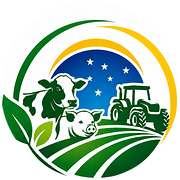
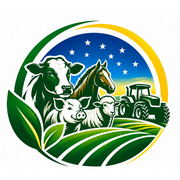
feat: atualizar identidade e incluir Embio 8000

diff --git a/components/site/site-chrome.tsx b/components/site/site-chrome.tsx
@@ -24,6 +24,20 @@ export function Header() {
       <a className="site-logo" href="#inicio" aria-label="Susttenta, página inicial"><Image src="/favicon-master-1024.png" alt="" width={54} height={54} priority /><Image src="/logo-susttenta-wordmark.png" alt="Susttenta" width={178} height={25} priority /></a>
       <WhatsAppLink message={whatsappMessages.embio} ariaLabel="Falar com a Susttenta pelo WhatsApp" className="header-whatsapp whatsapp-pulse"><WhatsAppIcon size={19} /><span>Falar com a Susttenta</span></WhatsAppLink>
     </div>
+    <div className="represented-brands" aria-label="Marcas representadas pela Susttenta">
+      <div className="container represented-brands-inner">
+        <strong>Representante autorizado</strong>
+        <div className="represented-brand represented-brand-embio">
+          <Image src="/media/embio-official/embio-logo-original.png" alt="Embio" width={146} height={40} />
+          <span>Empresa de biotecnologia</span>
+        </div>
+        <span className="represented-brands-divider" aria-hidden="true" />
+        <div className="represented-brand represented-brand-tlc">
+          <Image src="/media/tlc-official/images/tlc-logo-original.svg" alt="TLC Agro" width={140} height={40} />
+          <span>Linha complementar para controle de moscas</span>
+        </div>
+      </div>
+    </div>
     <nav className="desktop-navigation" aria-label="Navegação principal">{navigationItems.map((item) => <a key={item.href} href={item.href}>{item.label}</a>)}</nav>
     <nav id="mobile-navigation" className={`mobile-navigation ${open ? "is-open" : ""}`} aria-label="Navegação móvel" hidden={!open}>{navigationItems.map((item) => <a key={item.href} href={item.href} onClick={() => setOpen(false)}>{item.label}</a>)}<WhatsAppLink message={whatsappMessages.embio} ariaLabel="Solicitar orientação pelo WhatsApp" className="whatsapp-pulse">Solicitar orientação</WhatsAppLink></nav>
   </header>;
@@ -34,8 +48,8 @@ export function Footer() {
   return <>
     <footer className="site-footer">
       <div className="container footer-grid">
-        <div className="footer-summary"><a className="footer-logo" href="#inicio"><Image src="/favicon-master-1024.png" alt="" width={76} height={76} /><Image src="/logo-susttenta-wordmark.png" alt="Susttenta" width={248} height={35} /></a><p>Representante autorizado Embio, com orientação para tratamento biológico de dejetos, ambiência, biodigestores e efluentes.</p><a className="footer-phone" href="tel:+5546999259777">+55 (46) 99925-9777</a></div>
-        <div><strong>Produtos Embio</strong><a href="#embiofert">Tratamento Embiofert</a><a href="#embio-3100">Embio 3100</a><a href="#embio-6000">Embio 6000</a></div>
+        <div className="footer-summary"><a className="footer-logo footer-logo-new" href="#inicio"><Image src="/media/brand/susttenta-logo-2026.webp" alt="Susttenta — Gerando Resultados com Sustentabilidade" width={280} height={280} /></a><p>Representante autorizado Embio, com orientação para tratamento biológico de dejetos, ambiência, biodigestores e efluentes.</p><a className="footer-phone" href="tel:+5546999259777">+55 (46) 99925-9777</a></div>
+        <div><strong>Produtos Embio</strong><a href="#embiofert">Tratamento Embiofert</a><a href="#embio-3100">Embio 3100</a><a href="#embio-6000">Embio 6000</a><a href="#embio-8000">Embio 8000</a></div>
         <div><strong>TLC Agro e Ecomax</strong><a href="#tlc-agro">Conhecer a linha Ecomax</a><WhatsAppLink message={whatsappMessages.ecomax} ariaLabel="Falar sobre a linha Ecomax pelo WhatsApp">WhatsApp Ecomax</WhatsAppLink><strong className="footer-subheading">Acesso rápido</strong><a href="#pedro">Sobre Pedro</a><a href="#faq">Perguntas frequentes</a></div>
         <div><strong>Privacidade</strong><Link href="/privacidade">Política de Privacidade</Link><Link href="/cookies">Política de Cookies</Link><Link href="/termos">Termos de Uso</Link><button type="button" onClick={manageCookies}>Gerenciar preferências</button></div>
       </div>

diff --git a/app/globals.css b/app/globals.css
@@ -602,3 +602,45 @@ small{font-size:.86rem}
   .product-video-grid.pvg-grid,
   .product-video-grid.pvg-grid.has-portrait{grid-template-columns:1fr}
 }
+
+/* ============================================================
+   Identidade 2026 — faixa de representação, Embio 8000 e nova marca
+   ============================================================ */
+.represented-brands{background:#063d24;color:#fff;border-top:1px solid rgba(255,255,255,.08)}
+.represented-brands-inner{min-height:68px;display:grid;grid-template-columns:auto minmax(250px,1fr) 1px minmax(250px,1fr);align-items:center;gap:clamp(18px,3vw,40px)}
+.represented-brands-inner>strong{font-size:clamp(.9rem,1.15vw,1.05rem);font-weight:900;letter-spacing:.1em;text-transform:uppercase;color:var(--yellow);white-space:nowrap}
+.represented-brand{min-width:0;display:flex;align-items:center;justify-content:center;gap:14px}
+.represented-brand img{display:block;width:auto;height:clamp(27px,2.7vw,36px);object-fit:contain}
+.represented-brand span{font-size:clamp(.82rem,1vw,.95rem);font-weight:750;line-height:1.25;color:#e5f0e9}
+.represented-brand-embio span{color:#a8d879}
+.represented-brand-tlc span{color:#f7d552}
+.represented-brands-divider{height:34px;background:rgba(255,255,255,.22)}
+.hero.hero-cinema{min-height:calc(100svh - 202px)}
+.footer-logo-new{width:max-content;max-width:100%;padding:10px;border-radius:18px;background:#fff}
+.footer-logo-new img,.footer-logo-new img:first-child{width:clamp(220px,23vw,280px);height:auto}
+
+.embio-product-8000{background:#edf3eb;color:var(--ink)}
+.embio-product-8000 .embio-product-media{background:linear-gradient(180deg,rgba(255,255,255,0) 50%,rgba(37,92,54,.12) 100%),radial-gradient(125% 86% at 50% 8%,#f8fbf5 0%,#dcebd7 52%,#c9dfc4 100%)}
+.embio-product-8000 .embio-product-stage img{filter:drop-shadow(0 20px 22px rgba(12,38,22,.28))}
+.embio-product-8000 .embio-product-stage::before{background:radial-gradient(ellipse at center,rgba(255,255,255,.72) 0%,rgba(255,255,255,0) 70%)}
+.embio-product-8000 .section-label{color:#2f7650}
+.embio-product-layout-compact{align-items:center}
+.embio-product-layout-compact .embio-product-media{min-height:clamp(360px,39vw,500px)}
+
+@media(max-width:1020px){
+  .represented-brands-inner{grid-template-columns:auto minmax(210px,1fr) 1px minmax(210px,1fr);gap:16px}
+  .represented-brand{gap:9px}
+  .represented-brand span{font-size:.76rem}
+}
+@media(max-width:760px){
+  html{scroll-padding-top:166px}
+  .represented-brands-inner{min-height:92px;grid-template-columns:1fr 1fr;gap:8px 16px;padding:9px 0 11px}
+  .represented-brands-inner>strong{grid-column:1/-1;text-align:center;font-size:.8rem;white-space:normal}
+  .represented-brand{display:grid;justify-items:center;gap:5px;text-align:center}
+  .represented-brand img{height:24px;max-width:132px}
+  .represented-brand span{font-size:.75rem;line-height:1.25}
+  .represented-brands-divider{display:none}
+  .mobile-navigation{top:166px}
+  .hero.hero-cinema{min-height:calc(100svh - 166px)}
+  .footer-logo-new img,.footer-logo-new img:first-child{width:min(72vw,270px)}
+}

diff --git a/components/site/site-data.ts b/components/site/site-data.ts
@@ -1,5 +1,5 @@
 export const navigationItems = [
-  { label: "Início", href: "#inicio" }, { label: "Embiofert", href: "#embiofert" }, { label: "Embio 3100", href: "#embio-3100" }, { label: "Embio 6000", href: "#embio-6000" }, { label: "TLC Agro", href: "#tlc-agro" }, { label: "Sobre Pedro", href: "#pedro" }, { label: "Contato", href: "#contato" },
+  { label: "Início", href: "#inicio" }, { label: "Embiofert", href: "#embiofert" }, { label: "Embio 3100", href: "#embio-3100" }, { label: "Embio 6000", href: "#embio-6000" }, { label: "Embio 8000", href: "#embio-8000" }, { label: "TLC Agro", href: "#tlc-agro" }, { label: "Sobre Pedro", href: "#pedro" }, { label: "Contato", href: "#contato" },
 ] as const;
 
 export type ProductVideo = { id: string; title: string; description: string; eyebrow: string; product: "embio" | "embiofert" | "embio-3100" | "embio-6000" | "tlc"; status: "available" | "coming-soon"; videoSrc: string | null; posterSrc: string; aspectRatio?: string };
@@ -26,6 +26,7 @@ export const faqItems = [
   { question: "Como Embio 3000 e Propulsor trabalham juntos?", answer: "O Propulsor promove circulação, aeração e homogeneização, enquanto o Embio 3000 fornece o componente biológico. A movimentação favorece a distribuição dos microrganismos e o contato com a matéria orgânica." },
   { question: "Qual a diferença entre Embio 3100 e Embio 6000?", answer: "O Embio 3100 é direcionado ao manejo interno de instalações de suínos sem envio direto ao biodigestor. O Embio 6000 atende instalações que enviam dejetos ao biodigestor, preservando a matéria orgânica destinada ao processo anaeróbio." },
   { question: "Qual solução considerar quando existe biodigestor?", answer: "O Embio 6000 deve ser considerado nesse cenário, mas a recomendação final depende do fluxo dos dejetos, das estruturas intermediárias e das condições da operação." },
+  { question: "Para que serve o Embio 8000?", answer: "O Embio 8000 é direcionado ao tratamento biotecnológico de efluentes industriais e agroindustriais com alta concentração de óleos e ácidos graxos. A recomendação depende da caracterização do efluente, da carga orgânica e das condições da estação de tratamento." },
   { question: "Como funciona a linha Ecomax?", answer: "O atrativo e a armadilha formam um conjunto de atração, entrada e retenção de moscas. Posicionamento, monitoramento, limpeza e manejo ambiental influenciam a utilização." },
   { question: "A Susttenta realiza avaliação antes da recomendação?", answer: "Sim. O atendimento considera ambiente, estrutura, manejo, destino dos dejetos e objetivo da operação antes de direcionar uma solução." },
   { question: "Como falar diretamente com Pedro?", answer: "Use o botão de WhatsApp desta página. Se possível, informe o tipo de operação, o desafio observado e como os resíduos ou dejetos são manejados." },

diff --git a/components/site/embio-product-sections.tsx b/components/site/embio-product-sections.tsx
@@ -1,5 +1,5 @@
 import Image from "next/image";
-import { ArrowRight, Droplets, ShieldAlert, Wind } from "lucide-react";
+import { ArrowRight, Droplets, Factory, ShieldAlert, Wind } from "lucide-react";
 import { ProductVideoGallery } from "./product-video-gallery";
 import { productVideos } from "./site-data";
 import { WhatsAppLink } from "./site-chrome";
@@ -63,6 +63,32 @@ export function Embio6000Section() {
     </div>
     <div className="embio-product-cta" data-reveal>
       <WhatsAppLink message={whatsappMessages.embio6000} ariaLabel="Consultar aplicação do Embio 6000 pelo WhatsApp" className="button button-yellow whatsapp-pulse">Consultar o Embio 6000<ArrowRight size={18} /></WhatsAppLink>
+    </div>
+  </div></section>;
+}
+
+export function Embio8000Section() {
+  return <section id="embio-8000" className="section embio-product embio-product-8000"><div className="container">
+    <div className="embio-product-layout embio-product-layout-compact" data-reveal>
+      <div className="embio-product-copy">
+        <p className="section-label">Efluentes industriais e agroindustriais</p>
+        <h2>Embio 8000</h2>
+        <p className="lead">Tratamento biotecnológico desenvolvido para efluentes com alta concentração de óleos e ácidos graxos.</p>
+        <ul className="technical-list">
+          <li><Droplets />Auxilia a biodegradação de óleos, gorduras e compostos orgânicos complexos.</li>
+          <li><Factory />Apoia a redução da carga orgânica e de odores em estações de tratamento biológico.</li>
+          <li><ShieldAlert />Aplicação definida a partir das características do efluente e da estrutura da estação.</li>
+        </ul>
+      </div>
+      <div className="embio-product-media">
+        <div className="embio-product-stage">
+          <Image src="/media/embio-official/embio-8000-frasco.webp" alt="Frasco oficial do Embio 8000, bioestimulador da linha agroindústria" width={340} height={816} sizes="(max-width: 900px) 66vw, 34vw" />
+        </div>
+      </div>
+      <aside className="biodigester-warning embio-product-warning"><strong>Diagnóstico antes da aplicação.</strong> Carga orgânica, presença de óleos e gorduras, mistura, oxigenação e condições da estação precisam ser avaliadas para orientar o tratamento.</aside>
+    </div>
+    <div className="embio-product-cta" data-reveal>
+      <WhatsAppLink message={whatsappMessages.embio8000} ariaLabel="Consultar aplicação do Embio 8000 pelo WhatsApp" className="button button-primary whatsapp-pulse">Consultar o Embio 8000<ArrowRight size={18} /></WhatsAppLink>
     </div>
   </div></section>;
 }

diff --git a/app/site-client.tsx b/app/site-client.tsx
@@ -3,7 +3,7 @@
 import { useEffect } from "react";
 import { FAQ, FinalCTA, PedroAuthority } from "@/components/site/closing-sections";
 import { EmbioOverview } from "@/components/site/embio-overview";
-import { Embio3100Section, Embio6000Section } from "@/components/site/embio-product-sections";
+import { Embio3100Section, Embio6000Section, Embio8000Section } from "@/components/site/embio-product-sections";
 import { EmbiofertSection } from "@/components/site/embiofert-section";
 import { Hero } from "@/components/site/hero";
 import { Footer, Header } from "@/components/site/site-chrome";
@@ -17,5 +17,5 @@ export function SiteClient() {
     elements.forEach((element) => observer.observe(element));
     return () => { observer.disconnect(); document.documentElement.classList.remove("reveal-enabled"); };
   }, []);
-  return <><Header /><main><Hero /><EmbiofertSection /><EmbioOverview /><Embio3100Section /><Embio6000Section /><TlcEcomaxSection /><PedroAuthority /><FAQ /><FinalCTA /></main><Footer /></>;
+  return <><Header /><main><Hero /><EmbiofertSection /><EmbioOverview /><Embio3100Section /><Embio6000Section /><Embio8000Section /><TlcEcomaxSection /><PedroAuthority /><FAQ /><FinalCTA /></main><Footer /></>;
 }

diff --git a/app/layout.tsx b/app/layout.tsx
@@ -3,10 +3,10 @@ import "./globals.css";
 
 export const metadata: Metadata = {
   title: "Susttenta | Soluções biotecnológicas para o campo",
-  description: "Tecnologias Embio e TLC Agro com orientação para tratamento biológico, ambiência, manejo de dejetos e controle estratégico de moscas.",
+  description: "Tecnologias Embio e TLC Agro com orientação para tratamento biológico, ambiência, manejo de dejetos, efluentes e controle estratégico de moscas.",
   applicationName: "Susttenta",
   manifest: "/site.webmanifest",
-  keywords: ["Susttenta", "Embio", "TLC Agro", "Ecomax", "tratamento de dejetos", "controle de moscas", "biodigestor", "granjas"],
+  keywords: ["Susttenta", "Embio", "Embio 8000", "TLC Agro", "Ecomax", "tratamento de dejetos", "tratamento de efluentes", "controle de moscas", "biodigestor", "granjas"],
   openGraph: {
     title: "Susttenta | Soluções biotecnológicas para o campo",
     description: "Soluções Embio e TLC Agro com orientação para granjas, lagoas, biodigestores e controle estratégico de moscas.",

diff --git a/components/site/hero.tsx b/components/site/hero.tsx
@@ -70,7 +70,7 @@ export function Hero() {
       </button>
       <div className="container hero-cinema-content">
         <div className="hero-copy" data-reveal>
-          <p className="hero-mark">SUSTTENTA <span aria-hidden="true">|</span> REPRESENTANTE AUTORIZADO EMBIO</p>
+          <p className="hero-mark">SUSTTENTA <span aria-hidden="true">|</span> ORIENTAÇÃO TÉCNICA APLICADA AO CAMPO</p>
           <h1>Especialista em tratamento de dejetos suínos e bovinos</h1>
           <p className="hero-summary">A Susttenta une tecnologia Embio, diagnóstico técnico e experiência de campo para orientar soluções adequadas à realidade de cada operação.</p>
           <p className="hero-signature">Tratamento responsável começa pela compreensão do sistema, do manejo e do destino dos dejetos.</p>

diff --git a/docs/ARCHITECTURE.md b/docs/ARCHITECTURE.md
@@ -2,17 +2,17 @@
 
 `app/site-client.tsx` apenas coordena a entrada progressiva por scroll (`IntersectionObserver`). Não há mais estado global de modal. A página foi dividida por responsabilidade em `components/site/`:
 
-- `hero.tsx`: primeira dobra com o vídeo do Propulsor Embio (`embiofert-propulsor-hero.mp4`, derivação recortada sem a legenda queimada) como fundo cinematográfico em tela cheia (~100svh menos o cabeçalho), camada escura para leitura. Vídeo decorativo, automático, mudo e em loop; `prefers-reduced-motion` mostra o poster sem autoplay; pausa quando a aba fica oculta; controle de pausa acessível para teclado/leitor de tela, visualmente oculto até receber foco. Identificação editorial "SUSTTENTA | REPRESENTANTE AUTORIZADO EMBIO" acima do título, sem cápsula/botão;
+- `hero.tsx`: primeira dobra com o vídeo do Propulsor Embio (`embiofert-propulsor-hero.mp4`, derivação recortada sem a legenda queimada) como fundo cinematográfico em tela cheia (~100svh menos o cabeçalho), camada escura para leitura. Vídeo decorativo, automático, mudo e em loop; `prefers-reduced-motion` mostra o poster sem autoplay; pausa quando a aba fica oculta; controle de pausa acessível para teclado/leitor de tela, visualmente oculto até receber foco. Identificação editorial "SUSTTENTA | ORIENTAÇÃO TÉCNICA APLICADA AO CAMPO" acima do título; a representação autorizada está destacada na faixa do cabeçalho;
 - `embiofert-section.tsx`: primeira seção após a hero — principal solução comercial, cabeçalho centralizado (sem logo solto), vídeo de operação inline, explicação, processo e relatos de campo;
 - `embio-overview.tsx`: visão geral da linha Embio seguida diretamente do laboratório apresentado em vídeo inline;
-- `embio-product-sections.tsx`: seções independentes `Embio3100Section` e `Embio6000Section`. Grid de áreas (`copy` / `media` / `warning`) equilibra as duas colunas no desktop e lineariza no celular (título → texto → produto → aviso → vídeo → CTA), sem alturas forçadas. O frasco é arte com fundo transparente (`*-frasco.webp`) sobre um "palco" com fundo coerente, base e sombra de contato em CSS — nada de retângulo branco. 3100 em palco claro esverdeado, 6000 em palco azul técnico com halo claro que separa o frasco branco do fundo. Relatos reproduzidos inline e CTA por WhatsApp abaixo do vídeo;
+- `embio-product-sections.tsx`: seções independentes `Embio3100Section`, `Embio6000Section` e `Embio8000Section`. Grid de áreas (`copy` / `media` / `warning`) equilibra as duas colunas no desktop e lineariza no celular (título → texto → produto → aviso → conteúdo complementar → CTA), sem alturas forçadas. Os frascos são artes com fundo transparente (`*-frasco.webp`) sobre um "palco" com fundo coerente, base e sombra de contato em CSS — nada de retângulo branco. 3100 usa palco claro esverdeado, 6000 usa azul técnico e 8000 usa verde industrial. O 8000 não possui depoimentos e recebe somente apresentação técnica e CTA;
 - `tlc-section.tsx`: seção independente TLC Agro, abrindo com faixa de marca em verde-escuro e o logo TLC branco em destaque, depois o portfólio EcoMax, aplicações e vídeos oficiais (galeria de cards verticais, um por linha no celular);
 - `inline-video.tsx`: componente de vídeo inline reutilizável — mostra o poster com botão de play central ("Assistir ao vídeo"), troca para `<video controls playsInline preload="metadata">` no próprio espaço ao clicar (sem modal, sem nova janela), oculta o play ao iniciar. A proporção vem de `item.aspectRatio` (medida real do arquivo: Embio 16 / 9, TLC/EcoMax 9 / 16), nunca de uma altura rígida; `data-orientation` expõe landscape/portrait/square para o tema;
 - `product-video-gallery.tsx`: grade de cartões que usa `inline-video.tsx`, com `variant` (`grid` responsivo respeitando vídeos verticais, `duo` dois cards largos para o Embio 6000, `stack` um card amplo para o Embio 3100);
 - `closing-sections.tsx`: perfil e experiência de Pedro, FAQ e CTA final;
-- `site-chrome.tsx`: cabeçalho, rodapé reforçado, ícone/links de WhatsApp e consentimento;
+- `site-chrome.tsx`: cabeçalho com faixa de marcas representadas, rodapé reforçado, nova identidade Susttenta, ícone/links de WhatsApp e consentimento;
 - `site-data.ts` e `whatsapp.ts`: conteúdo estruturado e contratos comerciais.
 
-Ordem das seções: hero → Tratamento Embiofert → visão geral Embio → laboratório → Embio 3100 → Embio 6000 → TLC Agro → Pedro → FAQ → contato → rodapé.
+Ordem das seções: hero → Tratamento Embiofert → visão geral Embio → laboratório → Embio 3100 → Embio 6000 → Embio 8000 → TLC Agro → Pedro → FAQ → contato → rodapé.
 
 Os vídeos Embio e TLC usam o contrato `ProductVideo` centralizado em `site-data.ts`; itens `coming-soon` ou sem `videoSrc` não renderizam player. Nenhum vídeo pesado é carregado antes da interação do visitante. As interações usam React e CSS, sem nova biblioteca de animação. Conteúdo essencial permanece no HTML e os efeitos respeitam `prefers-reduced-motion`.

diff --git a/docs/MEDIA-SOURCES.md b/docs/MEDIA-SOURCES.md
@@ -116,6 +116,21 @@ Observações sobre autorização: publicado diretamente no domínio oficial da 
 
 ## Embio
 
+### Embio 8000 e e-book técnico (2026-09-12)
+
+- E-book-fonte: `EBOOK - Potência e Eficiência no Tratamento de Efluentes (1).pdf`, fornecido diretamente pelo responsável do site. O PDF foi usado como contexto para desafios de carga orgânica, mistura e oxigenação em estações de tratamento; ele aborda o Propulsor Embio e não cita o Embio 8000 nominalmente. O PDF original não integra `public/`.
+- Conteúdo específico do Embio 8000: página oficial `https://embio.com.br/`, consultada em 2026-09-12. Foram usadas somente as indicações públicas sobre efluentes industriais e agroindustriais, óleos, ácidos graxos, matéria orgânica e avaliação da estação, sem percentuais, dosagens ou garantia de resultado.
+- Imagem-fonte: `public/media/embio-official/embio-8000.webp`, já registrada neste documento e proveniente da apresentação oficial do produto.
+- Derivação publicada: `public/media/embio-official/embio-8000-frasco.webp` (340 × 816 px, WebP com transparência). O fundo branco conectado às bordas foi removido por flood-fill determinístico com tolerância baixa; rótulo, embalagem, cores e proporção foram preservados.
+- Uso no site: seção própria do Embio 8000, sem depoimentos e com encaminhamento para avaliação técnica pelo WhatsApp.
+
+### Identidade Susttenta atualizada (2026-09-12)
+
+- Arquivo-fonte: `WhatsApp Image 2026-09-09 at 10.52.54.jpeg`, fornecido diretamente pelo responsável do site.
+- Derivação principal: `public/media/brand/susttenta-logo-2026.webp`, preservando a composição completa, o novo conjunto de animais, o wordmark e a assinatura “Gerando Resultados com Sustentabilidade”.
+- Derivações de interface: `public/logo-susttenta-wordmark.png` e conjunto de favicons/ícones (`favicon-master-1024.png`, PNGs 16/32/48, Apple Touch Icon, Android 192/512, MSTile e ICO). O favicon usa o novo emblema sem o wordmark, para permanecer reconhecível em tamanhos pequenos.
+- A captura `WhatsApp Image 2026-09-07 at 21.24.28.jpeg` foi conferida e contém a mesma fotografia de Pedro já publicada, acrescida da interface do celular e de elementos do site. Ela não substitui o retrato limpo `images/pedro-luis-schmidt.webp`.
+
 ### Pacote oficial fornecido em setembro de 2026
 
 Arquivos-fonte fornecidos diretamente pelo responsável pelo site em 2026-09-07. Os originais de WhatsApp foram usados somente como fonte de trabalho e não integram o pacote público. O site publica derivações com nomes descritivos em `public/media/embio-2026/`.

diff --git a/PRODUCT.md b/PRODUCT.md
@@ -21,8 +21,9 @@ A Susttenta é a marca principal e representa prioritariamente a linha Embio com
 ## Capabilities and Constraints
 
 - Tratamento Embiofert é a principal solução comercial.
-- Embio 3100 e Embio 6000 possuem aplicações distintas e exigem avaliação técnica.
-- Embio 5000+ e Embio 8000 permanecem temporariamente fora da página pública.
+- Embio 3100, Embio 6000 e Embio 8000 possuem aplicações distintas e exigem avaliação técnica.
+- Embio 8000 é apresentado sem depoimentos, com base no material oficial do produto e no contexto técnico do e-book sobre tratamento de efluentes agroindustriais.
+- Embio 5000+ permanece temporariamente fora da página pública.
 - A linha Ecomax da TLC Agro é apresentada separadamente para controle estratégico de moscas.
 - O canal comercial confirmado é o WhatsApp +55 (46) 99925-9777.
 - Não inventar dosagens, resultados, prazos, credenciais, depoimentos, dados jurídicos ou garantias.
@@ -34,7 +35,7 @@ Susttenta como marca principal; verde como cor dominante, amarelo como destaque,
 
 ## Evidence on Hand
 
-Imagens e vídeos Embio fornecidos diretamente pelo responsável comercial estão organizados em `public/media/embio-2026/`, incluindo tecnologia e laboratório, operação do Tratamento Embiofert, relatos de campo do Embiofert, Embio 3100 e Embio 6000 e materiais de apoio dos produtos. O retrato de Pedro deriva da peça oficial fornecida para sua participação técnica no Espaço Impulso. Toda procedência e transformação está registrada em `docs/MEDIA-SOURCES.md`.
+Imagens e vídeos Embio fornecidos diretamente pelo responsável comercial estão organizados em `public/media/embio-2026/`, incluindo tecnologia e laboratório, operação do Tratamento Embiofert, relatos de campo do Embiofert, Embio 3100, Embio 6000 e material do Embio 8000. O retrato de Pedro deriva da peça oficial fornecida para sua participação técnica no Espaço Impulso. Toda procedência e transformação está registrada em `docs/MEDIA-SOURCES.md`.
 
 ## Product Principles
 

diff --git a/DESIGN.md b/DESIGN.md
@@ -6,12 +6,13 @@ Uma apresentação de campo tecnicamente orientada: estrutura editorial firme, g
 
 ## Hierarquia
 
-1. Hero institucional Susttenta com selo “REPRESENTANTE EMBIO”, vídeo real do Propulsor e assinatura técnica de Pedro.
+1. Cabeçalho institucional Susttenta com faixa de representação destacando Embio e TLC Agro nas cores oficiais; hero focada na especialidade técnica e no vídeo real do Propulsor.
 2. Visão geral Embio seguida por laboratório em vídeo de largura total.
 3. Tratamento Embiofert em máxima ênfase, abrindo com operação em vídeo e depois relatos de campo.
-4. Embio 3100 e Embio 6000 em seções independentes, com relatos antes da apresentação dos produtos.
-5. Seção independente TLC Agro/Ecomax com vídeos oficiais.
-6. Atendimento de Pedro, FAQ, contato e rodapé.
+4. Embio 3100 e Embio 6000 em seções independentes, com seus relatos de campo.
+5. Embio 8000 em seção técnica compacta, sem depoimentos, voltada a efluentes industriais e agroindustriais.
+6. Seção independente TLC Agro/Ecomax com vídeos oficiais.
+7. Atendimento de Pedro, FAQ, contato e rodapé.
 
 ## Linguagem visual
 

diff --git a/AGENTS.md b/AGENTS.md
@@ -34,9 +34,9 @@ Decisão registrada e implementada no commit `fc17af2`:
 - A Susttenta conduz a narrativa; a Embio é o eixo comercial principal.
 - Embio e TLC Agro **não** dividem hero, cards comparativos, metades equivalentes de seção
   nem a mesma composição visual. A seção TLC só começa após uma ruptura visual explícita.
-- Hierarquia comercial atual: Susttenta → Embio → Tratamento Embiofert → Embio 3100 → Embio 6000 →
-  TLC Agro e Ecomax → atendimento de Pedro → contato pelo WhatsApp. Embio 5000+ e 8000 permanecem
-  fora da página até que uma futura revisão seja autorizada.
+- Hierarquia comercial atual: Susttenta → Embio → Tratamento Embiofert → Embio 3100 → Embio 6000 → Embio 8000 →
+  TLC Agro e Ecomax → atendimento de Pedro → contato pelo WhatsApp. Embio 5000+ permanece fora
+  da página até que uma futura revisão seja autorizada.
 - Ordem das seções em `docs/ARCHITECTURE.md`.
 
 ## Preservar sempre
